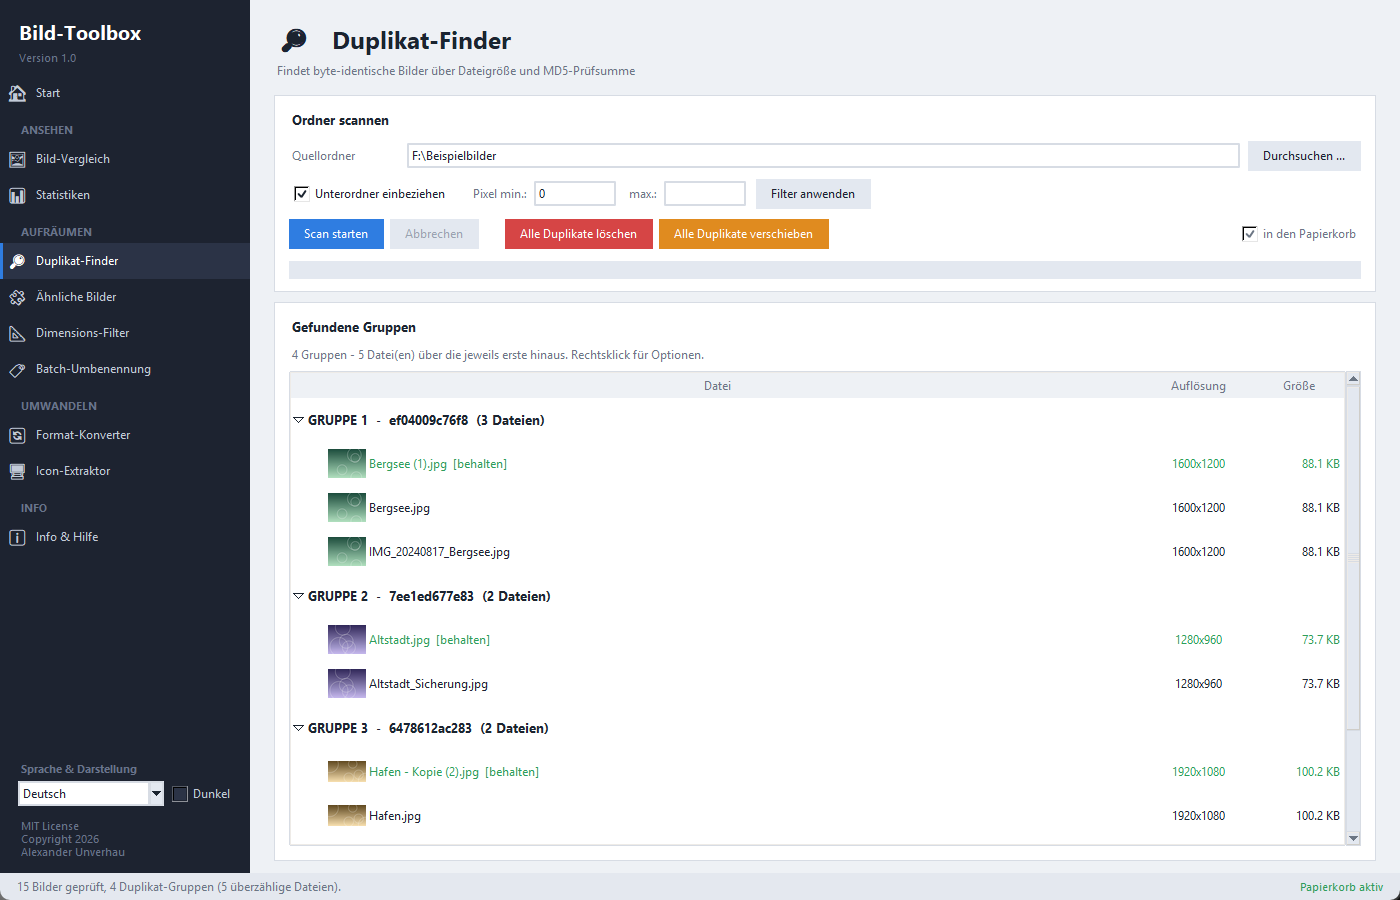
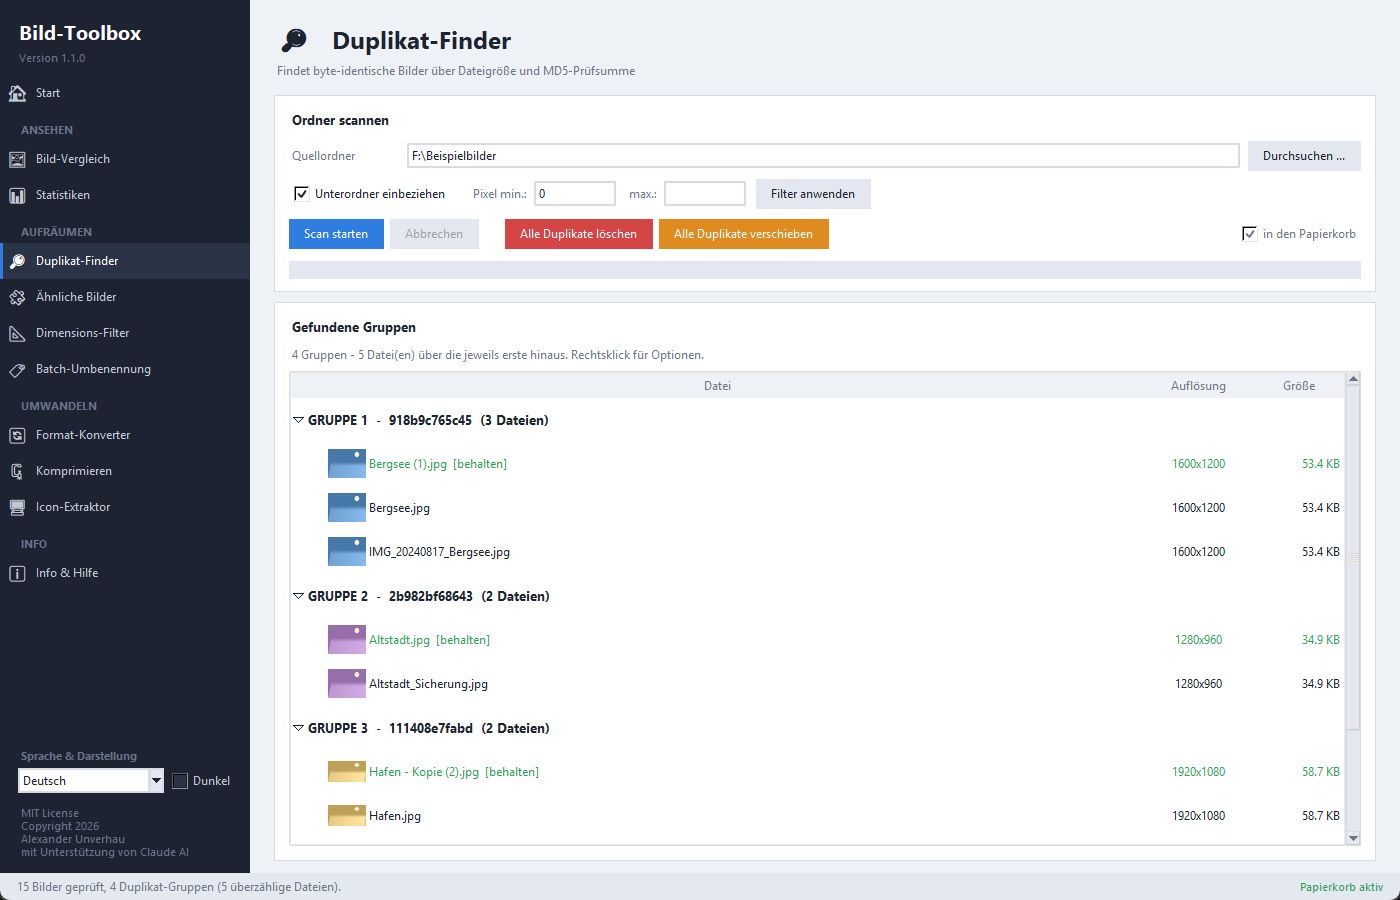
Version 1.1.0
APP_VERSION steht auf 1.1.0, und der Abschnitt "Unveroeffentlicht" im
Aenderungsprotokoll ist zu [1.1.0] geschlossen - mit dem Modul
"Komprimieren" und dem Programmsymbol unter Hinzugefuegt, dem
verschobenen Tastenkuerzel unter Geaendert und der Pillow-Untergrenze
unter Behoben. Die Vergleichslinks am Fuss sind nachgezogen.

Alle Bildschirmfotos sind neu aufgenommen. Die alten zeigten noch neun
Module in der Seitenleiste, "Version 1.0" und eine Fusszeile ohne den
Hinweis auf Claude AI. Dazu kommt komprimieren.png fuer das neue Modul;
beide READMEs binden es ein, und docs/screenshots/README.md fuehrt es
auf.

Die Aufnahmen halten sich an die Vorgaben in docs/screenshots/README.md:
1400x900, nur der Fensterinhalt, DPI-bewusst aufgenommen und mit der
Tk-Skalierung auf 96/72, damit nichts hochgerechnet wird. Es sind keine
echten Pfade und keine privaten Bilder darauf - die Beispieldateien sind
erzeugt und tragen erfundene Namen.

diff --git a/CHANGELOG.md b/CHANGELOG.md
@@ -9,6 +9,8 @@ die Versionsnummern folgen der [Semantischen Versionierung](https://semver.org/l
 
 <!-- Neue Einträge hier sammeln, bis die nächste Version getaggt wird. -->
 
+## [1.1.0] – 2026-10-24
+
 ### Hinzugefügt
 
 - **Das Modul „Komprimieren“.** Bilder kleiner machen, ohne das Format zu
@@ -188,7 +190,8 @@ Einzelprogramme *Bildbetrachter Pro 2.0*, *Icon Extraktor*,
   `pillow-heif` wird mit einer gewöhnlichen `import`-Zeile geladen, damit
   PyInstaller es beim Packen findet
 
-[Unveröffentlicht]: https://github.com/DerAlexmann/bild-toolbox/compare/v1.0.5...HEAD
+[Unveröffentlicht]: https://github.com/DerAlexmann/bild-toolbox/compare/v1.1.0...HEAD
+[1.1.0]: https://github.com/DerAlexmann/bild-toolbox/compare/v1.0.5...v1.1.0
 [1.0.5]: https://github.com/DerAlexmann/bild-toolbox/compare/v1.0.4...v1.0.5
 [1.0.4]: https://github.com/DerAlexmann/bild-toolbox/compare/v1.0.3...v1.0.4
 [1.0.3]: https://github.com/DerAlexmann/bild-toolbox/compare/v1.0.2...v1.0.3

diff --git a/README.md b/README.md
@@ -18,7 +18,15 @@ Telemetrie – alles läuft lokal.
 ![Startseite mit allen Modulen als Kacheln](docs/screenshots/start.png)
 
 <details>
-<summary><b>Weitere Ansichten</b> – Duplikat-Finder, Format-Konverter, dunkles Schema</summary>
+<summary><b>Weitere Ansichten</b> – Komprimieren, Duplikat-Finder, Format-Konverter, dunkles Schema</summary>
+
+### Komprimieren
+
+Entweder eine Qualitätsstufe wählen oder eine Zielgröße in KB vorgeben – dann
+sucht das Modul die höchste Qualität, die noch darunter passt. Die Grenze für die
+längste Kante verkleinert nur und vergrößert nie.
+
+![Modul Komprimieren mit Zielgröße und gefüllter Stapelliste](docs/screenshots/komprimieren.png)
 
 ### Duplikat-Finder
 

diff --git a/README.en.md b/README.en.md
@@ -21,7 +21,15 @@ start; you can switch it at any time in the sidebar.
 ![Home screen with every module as a tile](docs/screenshots/start.png)
 
 <details>
-<summary><b>More views</b> – duplicate finder, format converter, dark theme</summary>
+<summary><b>More views</b> – compress, duplicate finder, format converter, dark theme</summary>
+
+### Compress
+
+Either pick a quality level or set a target size in KB – the module then finds the
+highest quality that still fits underneath it. The edge limit only shrinks images,
+it never enlarges them.
+
+![The compress module with a target size and a filled batch list](docs/screenshots/komprimieren.png)
 
 ### Duplicate finder
 

diff --git a/docs/screenshots/README.md b/docs/screenshots/README.md
@@ -6,6 +6,7 @@ Die Bilder in diesem Ordner werden in [README.md](../../README.md) und
 | Datei | Inhalt |
 |---|---|
 | `start.png` | Startseite mit den Modulkacheln |
+| `komprimieren.png` | Modul Komprimieren mit Zielgröße und gefüllter Stapelliste |
 | `duplikate.png` | Duplikat-Finder mit einem echten Suchergebnis |
 | `konverter.png` | Format-Konverter mit gefüllter Batch-Liste |
 | `start-dunkel.png` | Startseite im dunklen Farbschema |
